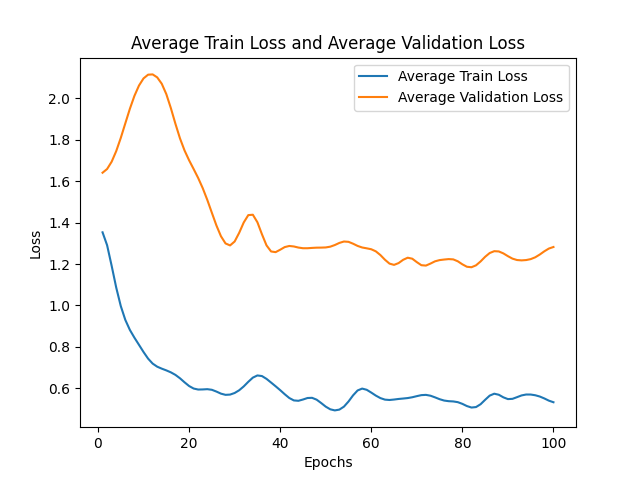
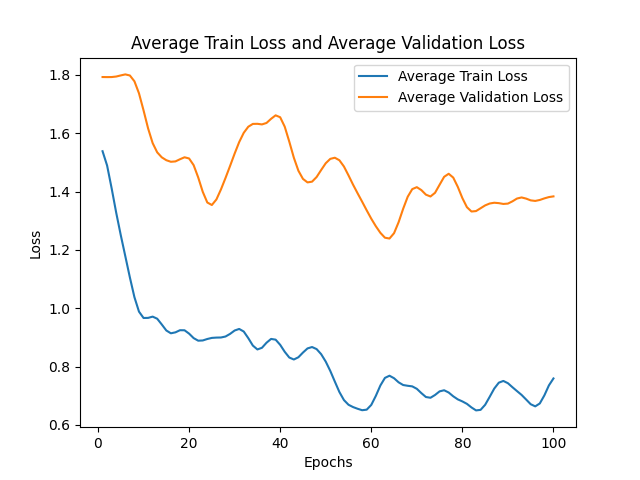
Structure update

diff --git a/src/handetect/predict.py b/src/handetect/predict.py
@@ -1,0 +1,80 @@
+import os
+import torch
+import torch.nn as nn
+from torchvision import transforms
+from PIL import Image
+from handetect.models import *
+from torchmetrics import ConfusionMatrix
+import matplotlib.pyplot as plt
+
+# Define the path to your model checkpoint
+model_checkpoint_path = "model.pth"
+
+DEVICE = torch.device("cuda:0" if torch.cuda.is_available() else "cpu")
+
+NUM_CLASSES = 6
+
+# Define transformation for preprocessing the input image
+preprocess = transforms.Compose(
+    [
+        transforms.Resize((64, 64)),  # Resize the image to match training input size
+        transforms.Grayscale(num_output_channels=3),  # Convert the image to grayscale
+        transforms.ToTensor(),
+        transforms.Normalize((0.5, 0.5, 0.5), (0.5, 0.5, 0.5)),  # Normalize the image
+    ]
+)
+
+# Load your model (change this according to your model definition)
+model = resnet18(pretrained=False, num_classes=NUM_CLASSES)
+model.load_state_dict(
+    torch.load(model_checkpoint_path, map_location=DEVICE)
+)  # Load the model on the same device
+model.eval()
+model = model.to(DEVICE)
+model.eval()
+torch.set_grad_enabled(False)
+
+
+def predict_image(image_path, model=model, transform=preprocess):
+    # Define images variable to recursively list all the data file in the image_path
+    classes = ['Cerebral Palsy', 'Dystonia', 'Essential Tremor', 'Healthy', 'Huntington Disease', 'Parkinson Disease']
+
+    print("---------------------------")
+    print("Image path:", image_path)
+    image = Image.open(image_path)
+    image = transform(image).unsqueeze(0)
+    image = image.to(DEVICE)
+    output = model(image)
+
+    # softmax algorithm
+    probabilities = torch.softmax(output, dim=1)[0] * 100
+
+    # Sort the classes by probabilities in descending order
+    sorted_classes = sorted(
+        zip(classes, probabilities), key=lambda x: x[1], reverse=True
+    )
+
+    # Report the prediction for each class
+    print("Probabilities for each class:")
+    for class_label, class_prob in sorted_classes:
+        class_prob = class_prob.item().__round__(2)
+        print(f"{class_label}: {class_prob}%")
+
+    # Get the predicted class
+    predicted_class = sorted_classes[0][0]  # Most probable class
+    predicted_label = classes.index(predicted_class)
+
+    # Report the prediction
+    print("Predicted class:", predicted_label)
+    print("Predicted label:", predicted_class)
+    print("---------------------------")
+
+    return sorted_classes
+
+
+# # Call the predict_image function
+# predicted_label, sorted_probabilities = predict_image(image_path, model, preprocess)
+
+# # Access probabilities for each class in sorted order
+# for class_label, class_prob in sorted_probabilities:
+#     print(f"{class_label}: {class_prob}%")

diff --git a/src/app.py b/src/app.py
@@ -1,0 +1,49 @@
+import gradio as gr
+import handetect.predict as predict
+
+
+def upload_file(files):
+    file_paths = [file.name for file in files]
+    return file_paths
+
+
+def process_file(webcam_filepath, upload_filepath):
+    result = []
+    if webcam_filepath == None:
+        sorted_classes = predict.predict_image(upload_filepath)
+        for class_label, class_prob in sorted_classes:
+            class_prob = class_prob.item().__round__(2)
+            result.append(f"{class_label}: {class_prob}%")
+        return result
+    elif upload_filepath == None:
+        sorted_classes = predict.predict_image(webcam_filepath)
+        for class_label, class_prob in sorted_classes:
+            class_prob = class_prob.item().__round__(2)
+            result.append(f"{class_label}: {class_prob}%")
+        return result
+    else:
+        sorted_classes = predict.predict_image(upload_filepath)
+        for class_label, class_prob in sorted_classes:
+            class_prob = class_prob.item().__round__(2)
+            result.append(f"{class_label}: {class_prob}%")
+        return result
+
+
+demo = gr.Interface(
+    theme='gradio/soft',
+    fn=process_file,
+    title="HANDETECT",
+    description="An innovative AI-powered system that facilitates early detection and monitoring of movement disorders through handwriting assessment",
+    inputs=[
+        gr.inputs.Image(
+            source="upload", type="filepath", label="Choose Image"
+        ),
+    ],
+    outputs=[
+        gr.outputs.Textbox(label="Prediction 1"),
+        gr.outputs.Textbox(label="Prediction 2"),
+        gr.outputs.Textbox(label="Prediction 3"),
+    ],
+)
+
+demo.launch()

diff --git a/src/handetect/main.py b/src/handetect/main.py
@@ -19,10 +19,8 @@ STEP_SIZE = 10
 GAMMA = 0.5
 DEVICE = torch.device("cuda:0" if torch.cuda.is_available() else "cpu")
 NUM_PRINT = 100
-NUM_CLASSES = 5
-
-# Load and preprocess the data
-data_dir = r"data/train/Task 1"
+DATA_DIR = r"data/train/Task 1"
+NUM_CLASSES = len(os.listdir(DATA_DIR))
 
 # Define transformation for preprocessing
 preprocess = transforms.Compose(
@@ -49,8 +47,8 @@ augmentation = transforms.Compose(
 )
 
 # Load the dataset using ImageFolder
-original_dataset = ImageFolder(root=data_dir, transform=preprocess)
-augmented_dataset = ImageFolder(root=data_dir, transform=augmentation)
+original_dataset = ImageFolder(root=DATA_DIR, transform=preprocess)
+augmented_dataset = ImageFolder(root=DATA_DIR, transform=augmentation)
 dataset = original_dataset + augmented_dataset
 
 print("Length of dataset: ", len(dataset))
@@ -128,6 +126,8 @@ for epoch in range(NUM_EPOCHS):
         _, predicted = torch.max(outputs, 1)
         total_train += labels.size(0)
         correct_train += (predicted == labels).sum().item()
+        
+    TRAIN_ACC_HIST.append(correct_train / total_train)
 
     TRAIN_LOSS_HIST.append(loss.item())
 
@@ -141,7 +141,7 @@ for epoch in range(NUM_EPOCHS):
     # Learning rate scheduling
     lr_1 = optimizer.param_groups[0]["lr"]
     print("Learning Rate: {:.15f}".format(lr_1))
-    scheduler.step(avg_val_loss)
+    scheduler.step(avg_train_loss)
 
     # Validation loop
     model.eval()  # Set model to evaluation mode
